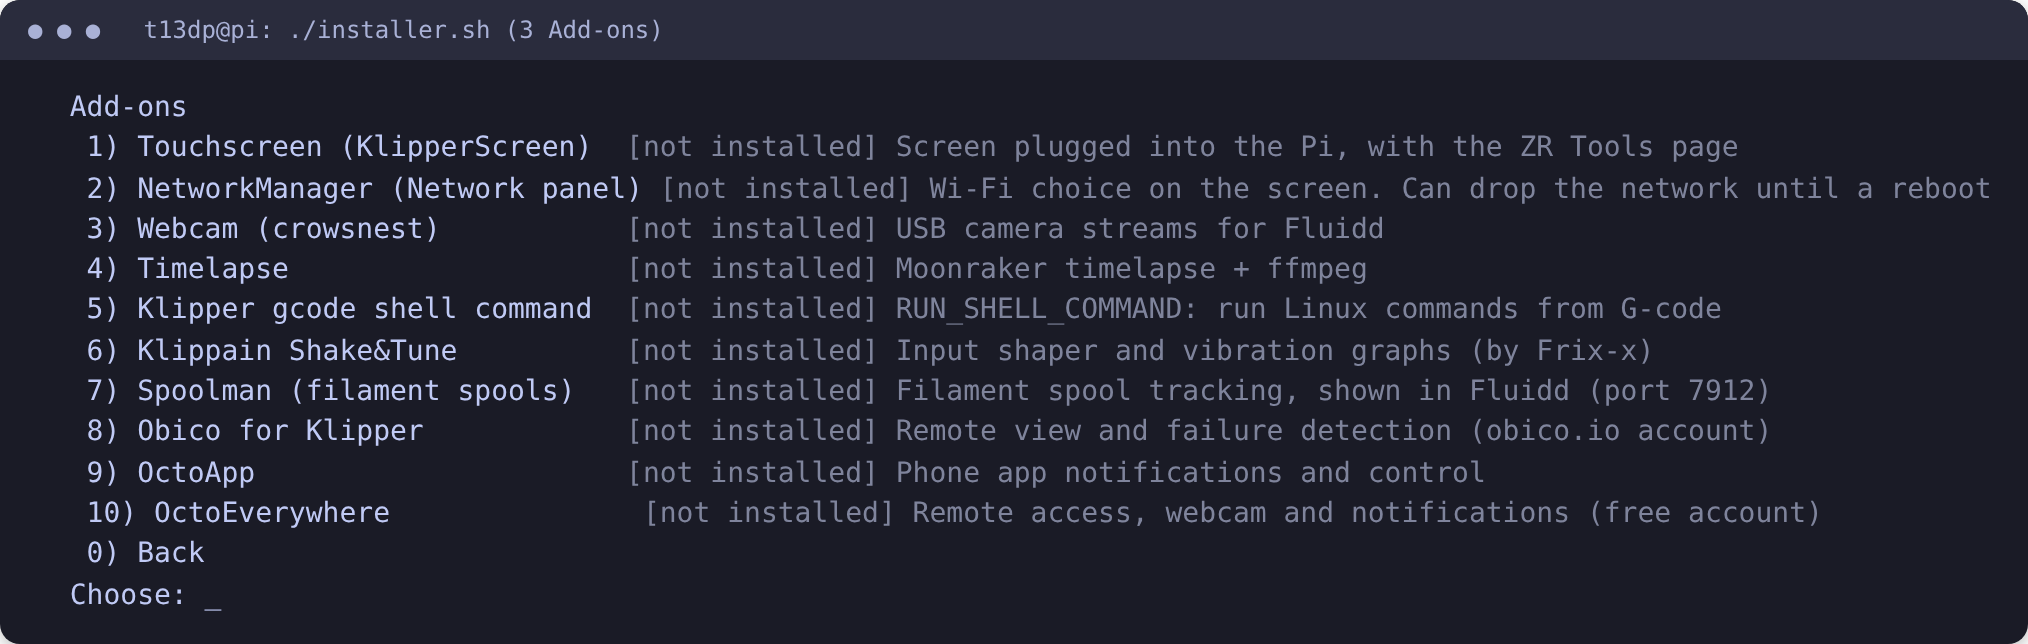
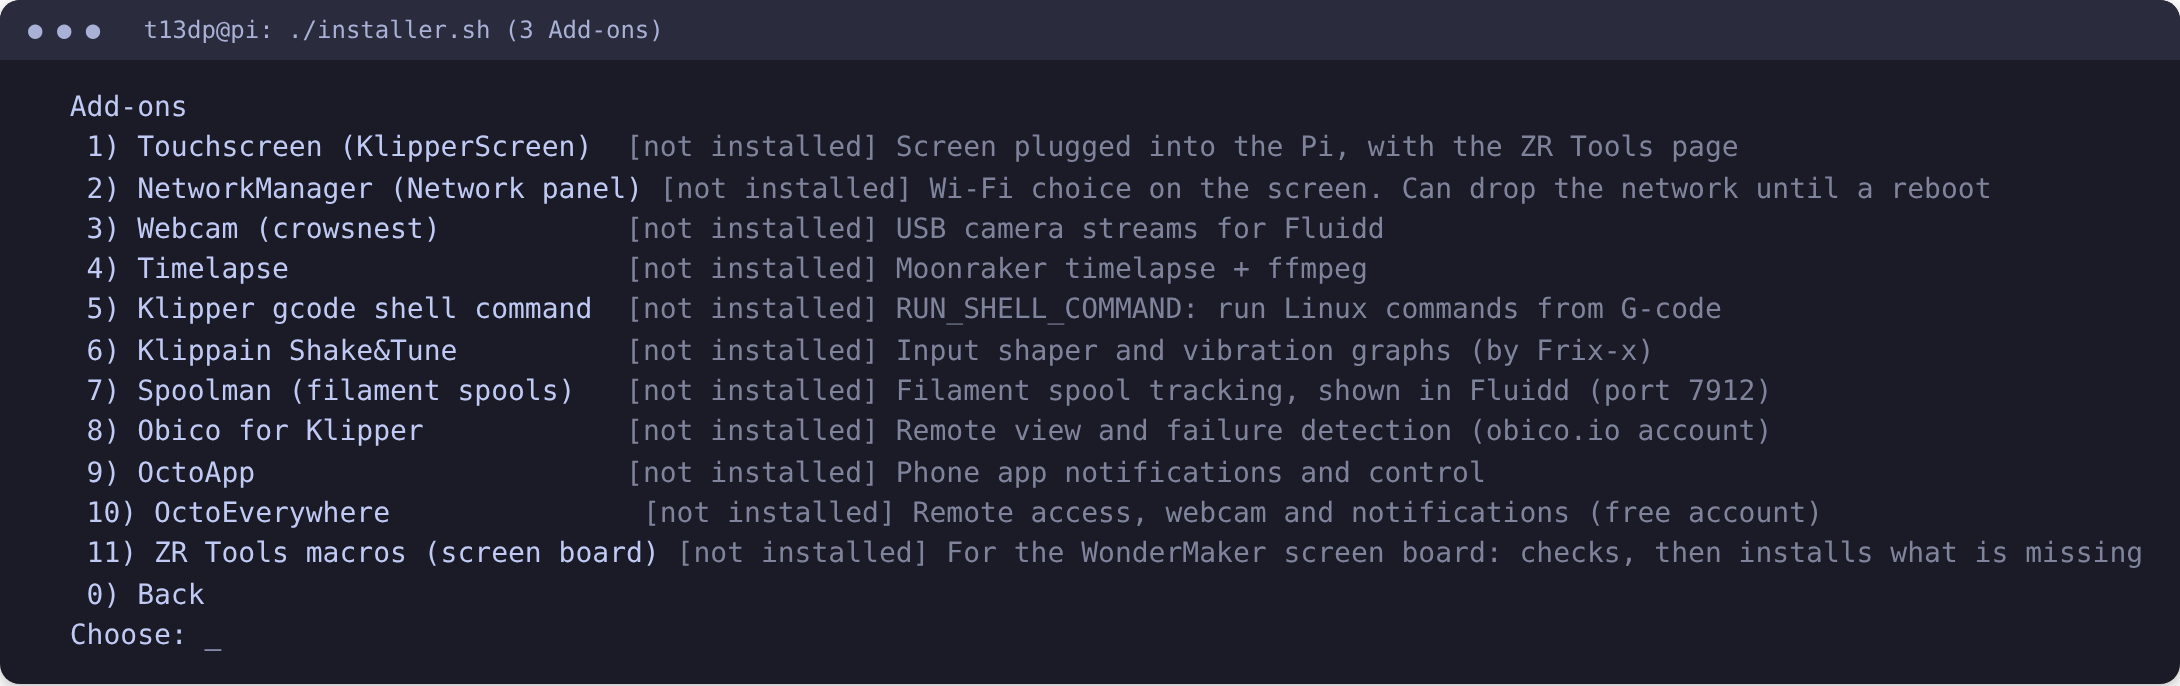
1.21.0: clock/NTP fix and optional ZR Tools setup on the Pi (screen board), ZR Tools macros add-on (Pi installer)
Claude-Session: https://claude.ai/code/session_01RLnHmx2p8s5454mQAvDeQs

Changed region(s): [[0.0311, 0.1242, 0.9941, 0.9627], [0.0, 0.9938, 1.0, 1.0], [0.0, 0.0311, 0.3417, 0.0621]]

diff --git a/README.md b/README.md
@@ -187,7 +187,7 @@ chmod +x installer.sh
 
 ![Update page](docs/img/menu-pi-update.png)
 
-**3 Add-ons**: touchscreen, webcam, timelapse, shell command, Shake&Tune, Spoolman, Obico, OctoApp, OctoEverywhere. Each shows whether it is installed.
+**3 Add-ons**: touchscreen, webcam, timelapse, shell command, Shake&Tune, Spoolman, Obico, OctoApp, OctoEverywhere, and ZR Tools macros (for the screen board). Each shows whether it is installed.
 
 ![Add-ons page](docs/img/menu-pi-addons.png)
 
@@ -414,6 +414,16 @@ Run `bash scripts/screen_board.sh` on the board to get this menu:
 
 ![Screen board menu](docs/img/menu-board-main.png)
 ![Screen board update page](docs/img/menu-board-update.png)
+
+### Clock, and ZR Tools on the Pi
+
+- **Clock.** A wrong date makes HTTPS downloads and apt fail. The install starts by checking whether the board's clock is synchronised. If not, it asks once and turns on automatic time sync (NTP, `systemd-timesyncd`). If no time server answers (some networks block it), it sets the clock once from GitHub's reply. apt's expired-date check is switched off as before. Run it alone with `bash scripts/screen_board.sh --fix-clock` or Settings > Fix the clock.
+- **ZR Tools on the Pi.** The ZR Tools page on the board sends macros such as `ZR_LOAD` to Klipper on the Pi, so the Pi needs `zr_tools.cfg` too. During the install the board asks *Also check and set up the ZR Tools macros on the Pi now?* (default **no**). If you say yes it asks the Pi user name (default `t13dp`) and password. The password is used for this run only and is never saved. The board logs in over ssh (it installs `sshpass` for that), then:
+  1. checks `zr_tools.cfg`, the `[include zr_tools.cfg]` line in `printer.cfg` and `[save_variables]`;
+  2. if all three are fine it says **already installed** and changes nothing;
+  3. if something is missing it installs it (your old files are kept as `.zrbak_<date>`), then restarts Klipper on the Pi (never during a print).
+
+  Later, run it alone with `bash scripts/screen_board.sh --zr-pi --pi <Pi address>` or Settings > Set up ZR Tools on the Pi. On the Pi itself: `./installer.sh --zr-tools`, or menu 3 Add-ons > ZR Tools macros (screen board).
 
 > The board's kernel has no virtual console (`/dev/tty0`), so the installer runs X on its own seat (display, framebuffer and touch assigned to `seat1`) with a custom service.
 

diff --git a/CHANGELOG.md b/CHANGELOG.md
@@ -1,5 +1,11 @@
 # Changelog
 
+## 1.21.0
+
+- Screen board installer: the install now starts with the clock. If the board's time is not synchronised it asks once and turns on automatic time sync (NTP); if no time server answers, it sets the clock once from GitHub's reply. apt's expired-date check is still switched off. Also available alone: `--fix-clock` and Settings > Fix the clock.
+- Screen board installer: new optional question in the install (default no): "Also check and set up the ZR Tools macros on the Pi?". It asks the Pi user name (default t13dp) and password once; the password is used for that run only and is never saved or put on a command line. It checks the Pi first and says "already installed" when nothing is missing, otherwise installs what is missing (`zr_tools.cfg`, the include line, `[save_variables]`) and restarts Klipper on the Pi (not during a print). Also available alone: `--zr-pi --pi HOST` and Settings > Set up ZR Tools on the Pi.
+- Pi installer: new Add-ons entry "ZR Tools macros (screen board)" and option `--zr-tools`: checks, then installs only what is missing, restarts Klipper after a change. Both installers use the same script, `zr_tools/ensure_zr_tools_pi.sh`.
+
 ## 1.20.9
 
 - Screen board menu: the header now shows the installer version (like the Pi installer menu).
